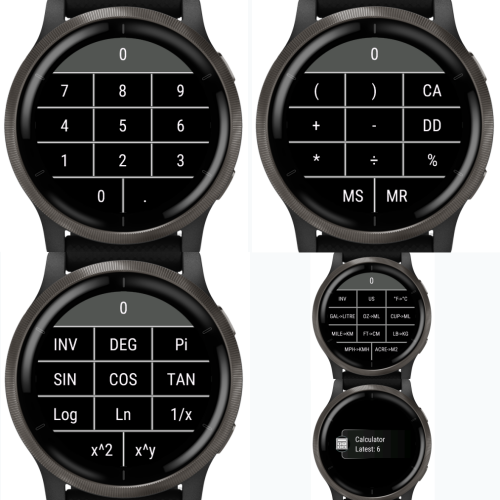
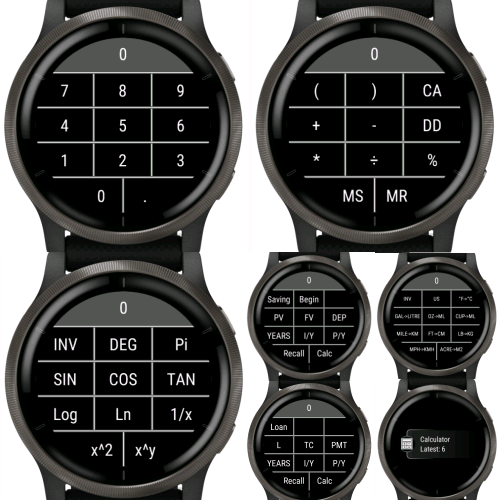
Updated images plus grammar correction in readme

Changed region(s): [[0.48, 0.48, 1.0, 1.0]]

diff --git a/README.md b/README.md
@@ -55,17 +55,17 @@ If you want to have the widget translated to your language, contact me through e
 
 V1.1.0 Added the following: 
 
-- Started the financial panel. USE AT YOUR OWN RISK. I make no garanty about the quality of the responses. I got the formulas from the web. I'm not a financial specialist.
-  After said, that, here how it works. Both Saving and Loan works similarely. The fields are:
+- Started the financial panel. USE AT YOUR OWN RISK. I make no guaranty about the quality of the responses. I got the formulas from the web. I'm not a financial specialist.
+  After said, that, here how it works. Both Saving and Loan works similarly. The fields are:
   Saving: 
-    - Begin/End: For recurent deposit, specify if the deposit happens at the start or the end of the period
+    - Begin/End: For recurrent deposit, specify if the deposit happens at the start or the end of the period
     - PV: Present Value
     - FV: Future Value
     - DEP: Deposit
     - YEARS: The term of the saving in years
     - I/Y: The YEARLY interest rate (enter 10 for 10%)
     - P/Y: Period per year. If monthly, enter 12. For yearly, enter 1.
-    - Recall: Press this followed by one of the buttons above to retreive the current saved or calculated value.
+    - Recall: Press this followed by one of the buttons above to retrieve the current saved or calculated value.
     - Calc: Calculate the corresponding field. Currently, the following work: PV, FV, DEP, YEARS and I/Y. For PV, FV, and DEP, you can enter PV or DEP or BOTH.
   Loan:
     - L: Loan
@@ -74,7 +74,7 @@ V1.1.0 Added the following:
     - YEARS: The term of the saving in years
     - I/Y: The YEARLY interest rate (enter 10 for 10%)
     - P/Y: Period per year. If monthly, enter 12. For yearly, enter 1.
-    - Recall: Press this followed by one of the buttons above to retreive the current saved or calculated value.
+    - Recall: Press this followed by one of the buttons above to retrieve the current saved or calculated value.
     - Calc: Calculate the corresponding field. Currently, the following work: L, TC, PMT.
 
   A field with data in it will show a '*' beside it. Entering 0 in a field clears the value.
